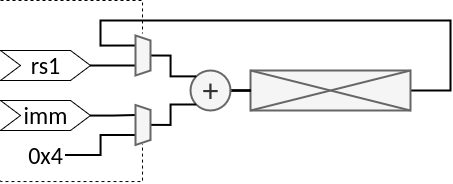
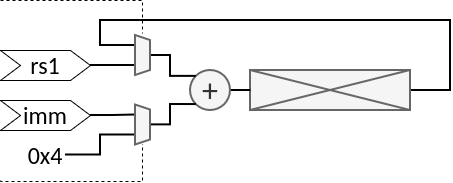
nieuwe content

diff --git a/static/css/theme-kul.css b/static/css/theme-kul.css
@@ -141,6 +141,13 @@ div.multiHcolumn {
     align-items: center;
 }
 
+div.multiHcolumnT {
+    display: flex;
+    flex-direction: row;
+    justify-content: space-around;
+    align-items: top;
+}
+
 div.multiHcolumn div.column{
     flex-basis: 0;
     flex-grow: 1;

diff --git a/layouts/shortcodes/multiHcolumnT.html b/layouts/shortcodes/multiHcolumnT.html
@@ -1,0 +1,3 @@
+<div class="multiHcolumnT">
+    {{ .Inner }}
+</div>

diff --git a/static/hdlsrc/600/firmware.c b/static/hdlsrc/600/firmware.c
@@ -1,0 +1,30 @@
+#include <stdio.h>
+
+#define GPIO_BUTTONS_BASEADDRESS    0x80000000
+#define GPIO_LEDS_BASEADDRESS       0x80000004
+#define GPIO_SWITCHES_BASEADDRESS   0x80000008
+
+#define GPIO_BUTTONS    (*(volatile unsigned int*)GPIO_BUTTONS_BASEADDRESS)
+#define GPIO_LEDS       (*(volatile unsigned int*)GPIO_LEDS_BASEADDRESS)
+#define GPIO_SWITCHES   (*(volatile unsigned int*)GPIO_SWITCHES_BASEADDRESS)
+
+
+void main(void) {
+
+    int i;
+
+    for (i=0;i<10;i++) {
+        GPIO_LEDS = i;
+    }   
+
+    GPIO_LEDS = 0x00000000;
+
+    for (i=0;i<100;i++) {
+        while (GPIO_BUTTONS == 0); // wait for button press
+        GPIO_LEDS = GPIO_SWITCHES;
+        while (GPIO_BUTTONS != 0); // wait for button release
+    }
+
+    GPIO_LEDS = 0xAAAAAAAA;
+    while(1);
+}

diff --git a/content/600_binst/630_packages.md b/content/600_binst/630_packages.md
@@ -1,0 +1,68 @@
+---
+title: 'Packages'
+pre: "<i class='fas fa-book'></i> "
+chapter: false
+weight: 630
+draft: false
+---
+
+De beschrijving van de processor die gemaakt wordt, begint al groter te worden. Van zodra er meerdere **componenten** zijn en deze in verschillende andere componenten geïnstantieerd worden, kunnen de *tekstbestanden* snel groot worden. In software wordt dit opgelost door libraries of soortgelijke equivalenten te gebruiken. VHDL komt hieraan tegemoet met **packages**. De structuur van een package is anders dan die van een *entity*, zoals tot hiertoe gebruikt.
+
+{{% multiHcolumn %}}
+{{% column %}}
+{{< include_file "/static/hdlsrc/600/package.vhd" "vhd" >}}
+{{% /column %}}
+{{% column %}}
+Hiernaast is de structuur van een **VHDL-package** weergegeven. Allereerst wordt er begonnen met het includen van de IEEE library en STD_LOGIC. Deze regels zijn nodig omdat er binnen de package (wellicht) gebruik van gemaakt wordt.
+
+Vervolgens zijn er 2 blokken de **package** en de **package body**.
+{{% /column %}}
+{{% /multiHcolumn %}}
+
+{{% multiHcolumnT %}}
+{{% column %}}
+### Package
+
+In de package kunnen zaken beschreven worden die **beschikbaar** zijn:
+
+* Component declaraties
+* Constanten
+* Types
+* Functie/procedure declaraties
+{{% /column %}}
+{{% column %}}
+### Package body
+
+In de package body kan beschreven worden **hoe** zaken werken.
+
+* Hier schrijf je de implementatie van functies/procedures
+
+{{% /column %}}
+{{% /multiHcolumnT %}}
+
+{{% multiHcolumn %}}
+{{% column %}}
+Om een package te gebruiken, volstaat het om de volgende twee lijnen toe te voegen aan het VHDL bestand, boven de entity.
+{{% /column %}}
+{{% column %}}
+{{< include_file "/static/hdlsrc/600/pacage_usage.vhd" "vhd" >}}
+{{% /column %}}
+{{% /multiHcolumn %}}
+
+
+Het gebruik van een package geeft enkele voordelen:
+
+* **declutteren** van code. Doordat declaraties niet meer herhaald moeten worden, wordt er meer overzicht gecreëerd
+* **structuur** verbetering door een ietwat meer doorgedreven scheiding van logica en implementatie
+* **consistentie** verhoging doordat definities en parameterisatie centraal staan.
+
+
+
+<!-- Different types for notices are: info (yellow), tip (green), warning (red), note (blue)-->
+{{% notice tip %}}
+Het is **niet** omdat de package de IEEE library en de STD_LOGIC_1164 package body gebruikt, dat de component die deze package gebruikt dat kan **weglaten**.
+{{% /notice %}}
+
+{{% notice info %}}
+Let op dat de packages *gecompiled* zijn voordat ze gebruikt worden!!
+{{% /notice %}}

diff --git a/content/600_binst/640_records.md b/content/600_binst/640_records.md
@@ -1,0 +1,48 @@
+---
+title: 'Records'
+pre: "<i class='fas fa-book'></i> "
+chapter: false
+weight: 640
+draft: false
+---
+
+In voorgaande cursustekst is het al meermaals aangehaald dat VHDL "sterk getypeerd" is. Een STD_LOGIC_VECTOR en een STD_LOGIC_UNSIGNED (bijvoorbeeld) kunnen niet zonder meer aan elkaar gekoppeld worden, zonder type-conversie.
+
+{{% multiHcolumn %}}
+{{% column %}}
+Er is al gebruikt gemaakt ([in hoofdstuk 4](/400_sequentiele_logica/455_arrays/)) van het feit dat een type zelf gecreeerd kan worden. Ook samengestelde vormen kunnen soms een meerwaarde bieden, zoals een struct in C. In VHDL kan dit bekomen worden door een **record** te maken.
+{{% /column %}}
+{{% column %}}
+{{< include_file "/static/hdlsrc/600/record.vhd" "vhdl" >}}
+{{% /column %}}
+{{% /multiHcolumn %}}
+
+Door een record aan te maken (zoals in het voorbeeld) kunnen een groep signalen samengenomen worden. Van zo een record wordt vervolgens een type gemaakt zodat dit ook gebruikt worden in VHDL beschrijvingen. **Merk op** dat er hier geen sprake is van een *richting* (in en out).
+
+### Voorbeeld
+
+{{% multiHcolumn %}}
+{{% column %}}
+{{< include_file "/static/hdlsrc/600/processor.vhd" "vhdl" >}}
+{{% /column %}}
+{{% column %}}
+In dit voorbeeld heeft de processor een **bus_o** en een **bus_i** port. De *bus_o*-poort is van het type zoals hierboven gedeclareerd. Deze "ene poort" is eigenlijk 3 bussen: 'data', 'address' en 'we'.
+
+Om één bepaalde bus (of veld) te selecteren is de syntax als volgt:
+
+```vhdl
+bus_o.data <= (others => '1');
+```
+{{% /column %}}
+{{% /multiHcolumn %}}
+
+De voordelen van het gebruik van records komen pas wanneer er veel losse signalen "samen horen". Dit is typisch het geval bij **interface** zoals AXI4 of wishbone bussen. Wanneer je bovendien een array aan records maakt als type, dan kan er veel type-werk bespaard worden. 
+
+Het gebruik van records zal geen impact hebben op het design dat gemaakt wordt, maar is eerder bedoeld om de "arme designer" te helpen met de beschrijving van het design.
+
+
+<!-- Different types for notices are: info (yellow), tip (green), warning (red), note (blue)-->
+{{% notice tip %}}
+Voor de volledigheid dient er vermeld te worden dat records genest kunnen worden. Een record kan dus bestaan uit verschillende types van velden waaronder dus ook een (andere) record.
+{{% /notice %}}
+

diff --git a/content/600_binst/620_details.md b/content/600_binst/620_details.md
@@ -33,17 +33,18 @@ Indien er geen jump is, is de waarde van de program counter de som:
 
 Met dit inzicht, een blaadje papier met een potlood (en een gom), enkele tassen koffie of thee (of water), kan een design gemaakt worden. Bijvoorbeeld:
 
-{{% multiHcolumn %}}
+{{% figure src="/images/600/PC_design.png" title="" %}}
+
+<!-- {{% multiHcolumn %}}
 {{% column %}}
 {{% figure src="/images/600/PC_design_2.png" title="" %}}
 {{% /column %}}
 {{% column %}}
-{{% figure src="/images/600/PC_design.png" title="" %}}
-{{% /column %}}
-{{% column %}}
 {{% figure src="/images/600/PC_design_3.png" title="" %}}
 {{% /column %}}
-{{% /multiHcolumn %}}
+{{% column %}}
+{{% /column %}}
+{{% /multiHcolumn %}} -->
 
 
 
@@ -67,9 +68,9 @@ Ongeacht de keuze van het design, ziet de entity voor de program counter er (qua
 Merk ook op dat de **immediate** ingang geen rol speel bij een **absolute jump**
 {{% /notice %}}
 
-Een testbench voor de program counter kan je hieronder vinden of <a href="/hdlsrc/500/program_counter_tb.vhd" download>hier</a>  downloaden. Op het einde van de simulatie wordt er een resultaat afgedrukt, zoals in het voorbeeld hieronder.
+<!-- Een testbench voor de program counter kan je hieronder vinden of <a href="/hdlsrc/500/program_counter_tb.vhd" download>hier</a>  downloaden. Op het einde van de simulatie wordt er een resultaat afgedrukt, zoals in het voorbeeld hieronder.
 
 {{% figure src="/images/600/pc_tb.png" title="" %}}
 
 
-{{< include_file "/static/hdlsrc/500/program_counter_tb.vhd" "vhdl" >}}
+{{< include_file "/static/hdlsrc/500/program_counter_tb.vhd" "vhdl" >}} -->

diff --git a/content/600_binst/610_jumps.md b/content/600_binst/610_jumps.md
@@ -6,7 +6,7 @@ weight: 610
 draft: false
 ---
 
-Tot hiertoe *liep* het programma gelijk een recept in de keuken. Iedere stap werd één-voor-één uitgevoerd. Iets geavanceerdere software (met de nadruk op *iets*) breken met dit principe. Af en toe wordt er een sprong uitgevoerd. Dit is zelfs al het geval bij een simpele if-constructie.
+Tot hiertoe *liep* het programma gelijk een recept in de keuken. Iedere stap werd één-voor-één uitgevoerd. Iets geavanceerdere software (met de nadruk op *iets*) breekt met dit principe: af en toe wordt er een sprong uitgevoerd. Dit is zelfs al het geval bij een simpele if-constructie.
 
 {{% multiHcolumn %}}
 {{% column %}}

diff --git a/content/600_binst/690_opdracht.md b/content/600_binst/690_opdracht.md
@@ -1,0 +1,21 @@
+---
+title: 'Opdracht 6: RISCV32i'
+pre: "<i class='fas fa-pen-square'></i> "
+chapter: false
+weight: 690
+draft: false
+---
+
+In deze opdracht wordt de processor uitgebreid tot een (quasi) volledige RISCV32i.
+
+{{% multiHcolumn %}}
+{{% column %}}
+### Firmware
+{{< include_file "/static/hdlsrc/600/firmware.c" "C" >}}
+{{% /column %}}
+{{% column %}}
+![RV32i](/images/600/rv32i.png)
+{{% /column %}}
+{{% /multiHcolumn %}}
+
+

diff --git a/content/600_binst/_index.md b/content/600_binst/_index.md
@@ -1,11 +1,11 @@
 ---
-title: '6. B-instructies'
+title: '6. RISBJU-instructies'
 chapter: true
 weight: 600
 draft: false
 ---
 
-# B-instructies
+# RISBJU-instructies
 
 ![Code](/images/pexels/pexels-jill-wellington-1638660-40815.jpg)
 
